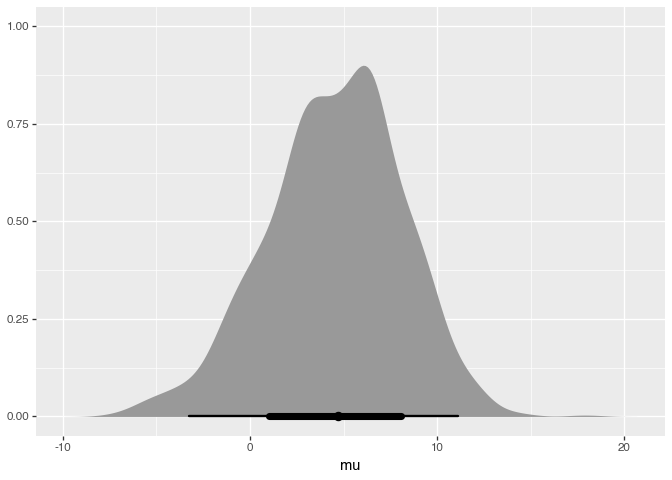
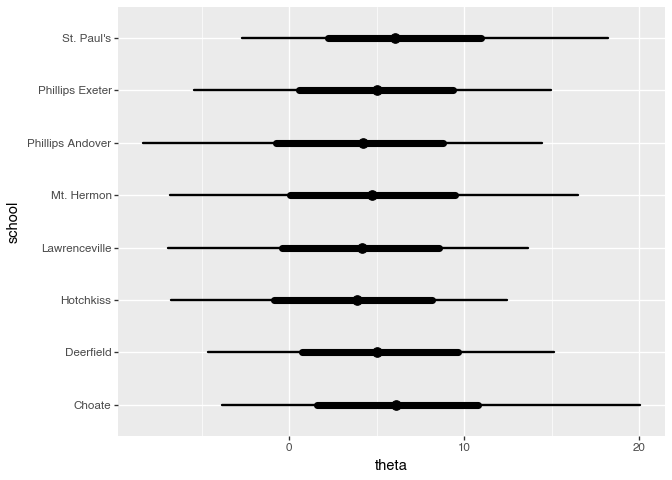
update readme

diff --git a/README.md b/README.md
@@ -202,6 +202,22 @@ Nested intervals only.
 
 ![](README_files/figure-commonmark/cell-11-output-1.png)
 
+## Slab plots
+
+Density only — no point estimate or intervals. Useful for overlaying
+distributions.
+
+``` python
+(
+    ggplot(draws, aes(x="theta", y="school", fill="school"))
+    + bt.stat_slab(alpha=0.6)
+    + labs(x="theta", y="school")
+    + theme(legend_position='none')
+)
+```
+
+![](README_files/figure-commonmark/cell-12-output-1.png)
+
 ## Pre-summarized data with geom_pointinterval
 
 If you’ve already computed summaries with `point_interval`, use the geom
@@ -246,7 +262,7 @@ summary
 )
 ```
 
-![](README_files/figure-commonmark/cell-13-output-1.png)
+![](README_files/figure-commonmark/cell-14-output-1.png)
 
 ## Scalar parameters
 
@@ -260,7 +276,7 @@ scalars= draws.select("mu", "tau")
 )
 ```
 
-![](README_files/figure-commonmark/cell-14-output-1.png)
+![](README_files/figure-commonmark/cell-15-output-1.png)
 
 ``` python
 (
@@ -270,4 +286,4 @@ scalars= draws.select("mu", "tau")
 )
 ```
 
-![](README_files/figure-commonmark/cell-15-output-1.png)
+![](README_files/figure-commonmark/cell-16-output-1.png)
